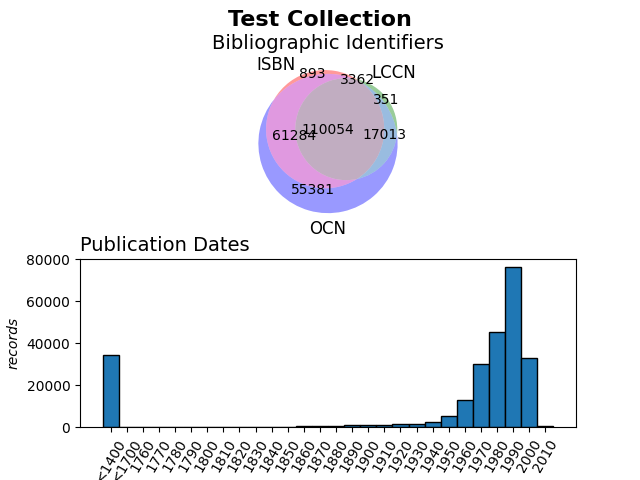
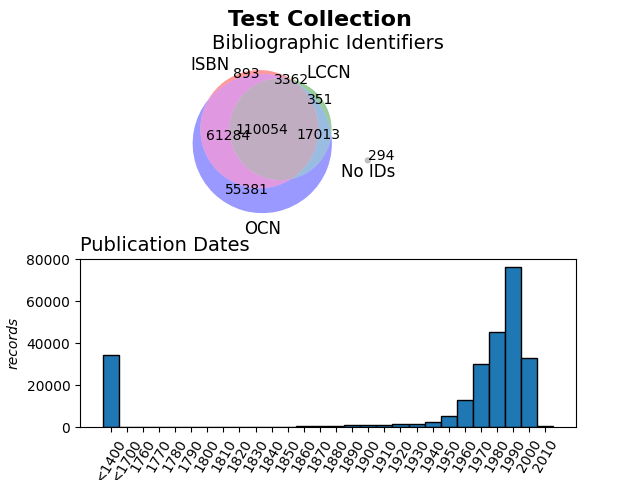
draw a No ID circle

Changed region(s): [[0.2812, 0.0938, 0.6562, 0.5]]

diff --git a/plotMARC.py b/plotMARC.py
@@ -1,6 +1,7 @@
 #!/usr/bin/env python3
 import argparse
 import csv
+import numpy as np
 import os
 import re
 from datetime import datetime
@@ -126,6 +127,17 @@ def plot(name, categories, dates):
     Output plot to <name>.png
     """
     fig, axes = plt.subplots(2, 1)
+
+    if categories[0] > 0:
+        # Draw a No ID circle, if there are any
+        noid = categories[0] / sum(categories[1:])
+        r = np.sqrt(noid / np.pi)
+        x, y = (0.8 + r, -0.2)
+        axes[0].annotate(categories[0], xy=(min(2, x), max(-0.5, y)))
+        axes[0].annotate('No IDs', xy=(min(2, x), max(-0.5, y - r)), fontsize=12, ha='center', va='top')
+        circle = plt.Circle((x, y), r, color='silver')
+        axes[0].add_patch(circle)
+
     venn = venn3(subsets=categories[1:], set_labels=('ISBN', 'LCCN', 'OCN'), ax=axes[0], normalize_to=1)
     sdates = sorted(dates)
     bins = []
@@ -143,7 +155,7 @@ def plot(name, categories, dates):
     axes[0].set_title(I_LABEL, fontsize=14)
     axes[1].set_title(D_LABEL, fontsize=14, loc='left')
     axes[1].set_ylabel('records', fontstyle='italic')
-
+    axes[0].set_xlim(-1, 2)
     plt.savefig(f'{name}.png')
 
 
